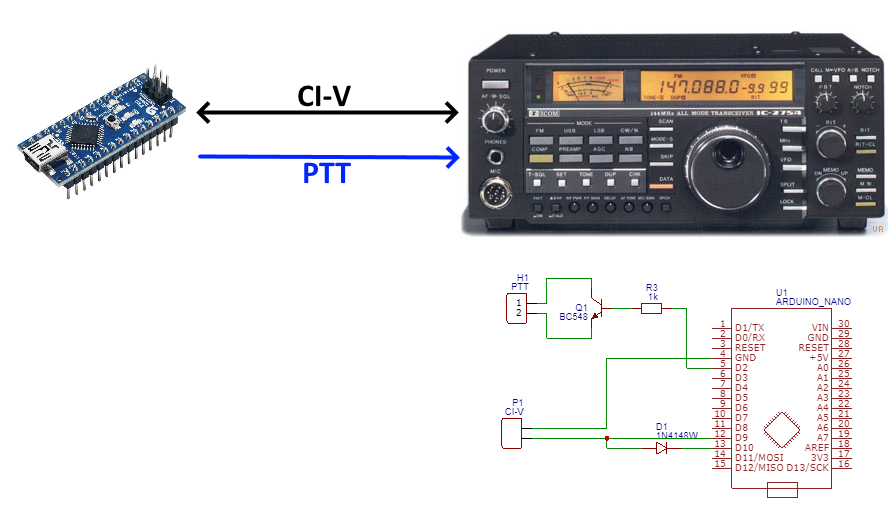
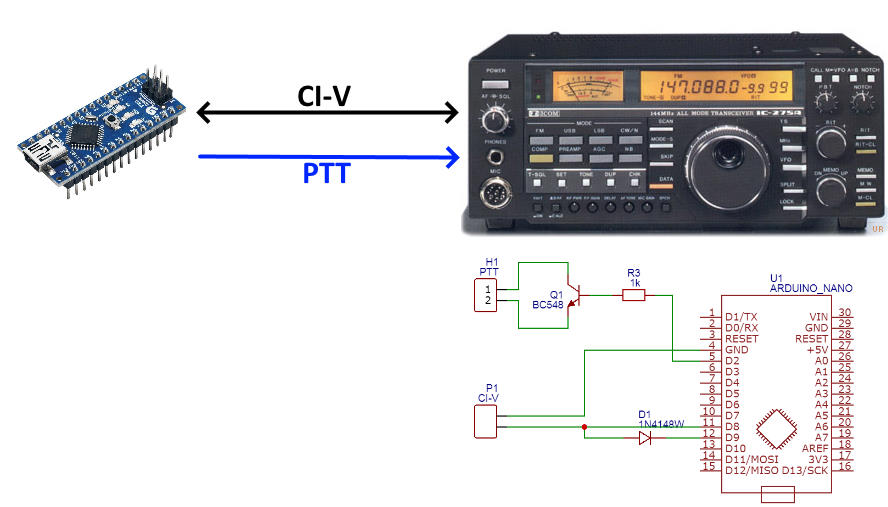
Minor updates

diff --git a/readme.md b/readme.md
@@ -17,7 +17,7 @@ the famous MAX232 and a USB <> RS232 adaptor. But the Arduino has already the ha
 But I ran into problems when I tried to echo both devices to each other. Apparantly the standard Software Serial library is interrupt driven or something like that.
 I think i got timing issues. I used AltSoftSerial to have a working software serial port with better timing. 
 
-**Attention** : Read the site, the ports this library uses are locked on D9 (rxd) and D10 (txd) for the Arduino Nano.
+**Attention** : Read the site, the ports this library uses are locked on D8 (rxd) and D9 (txd) for the Arduino Nano.
 
 # Interface
 ![](https://github.com/ON3JT/Arduino-CI-V/blob/master/info/interface.jpg)
